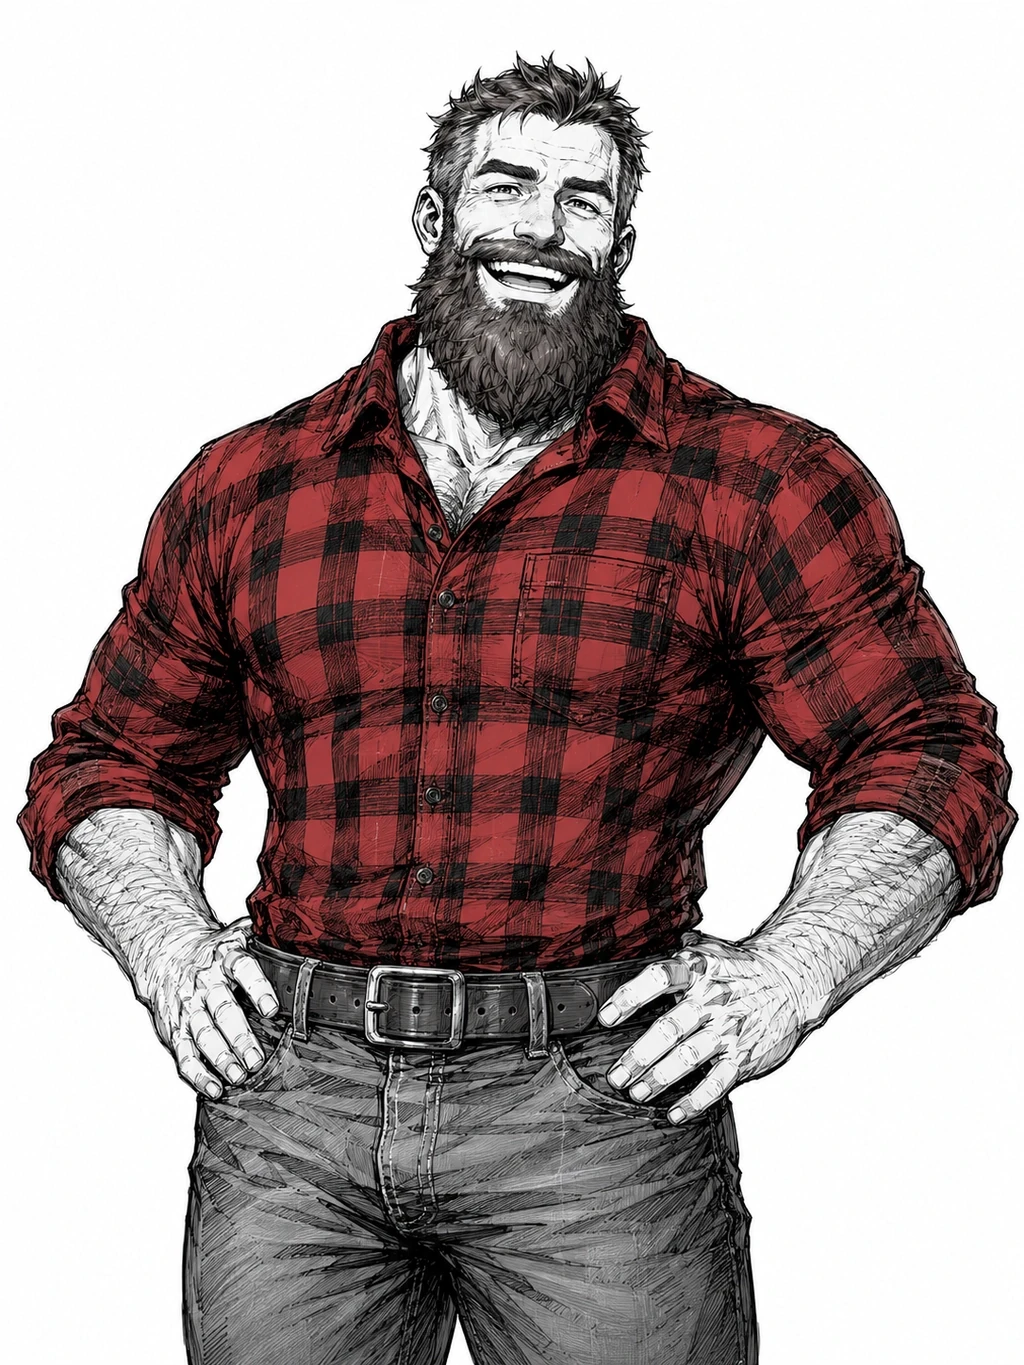
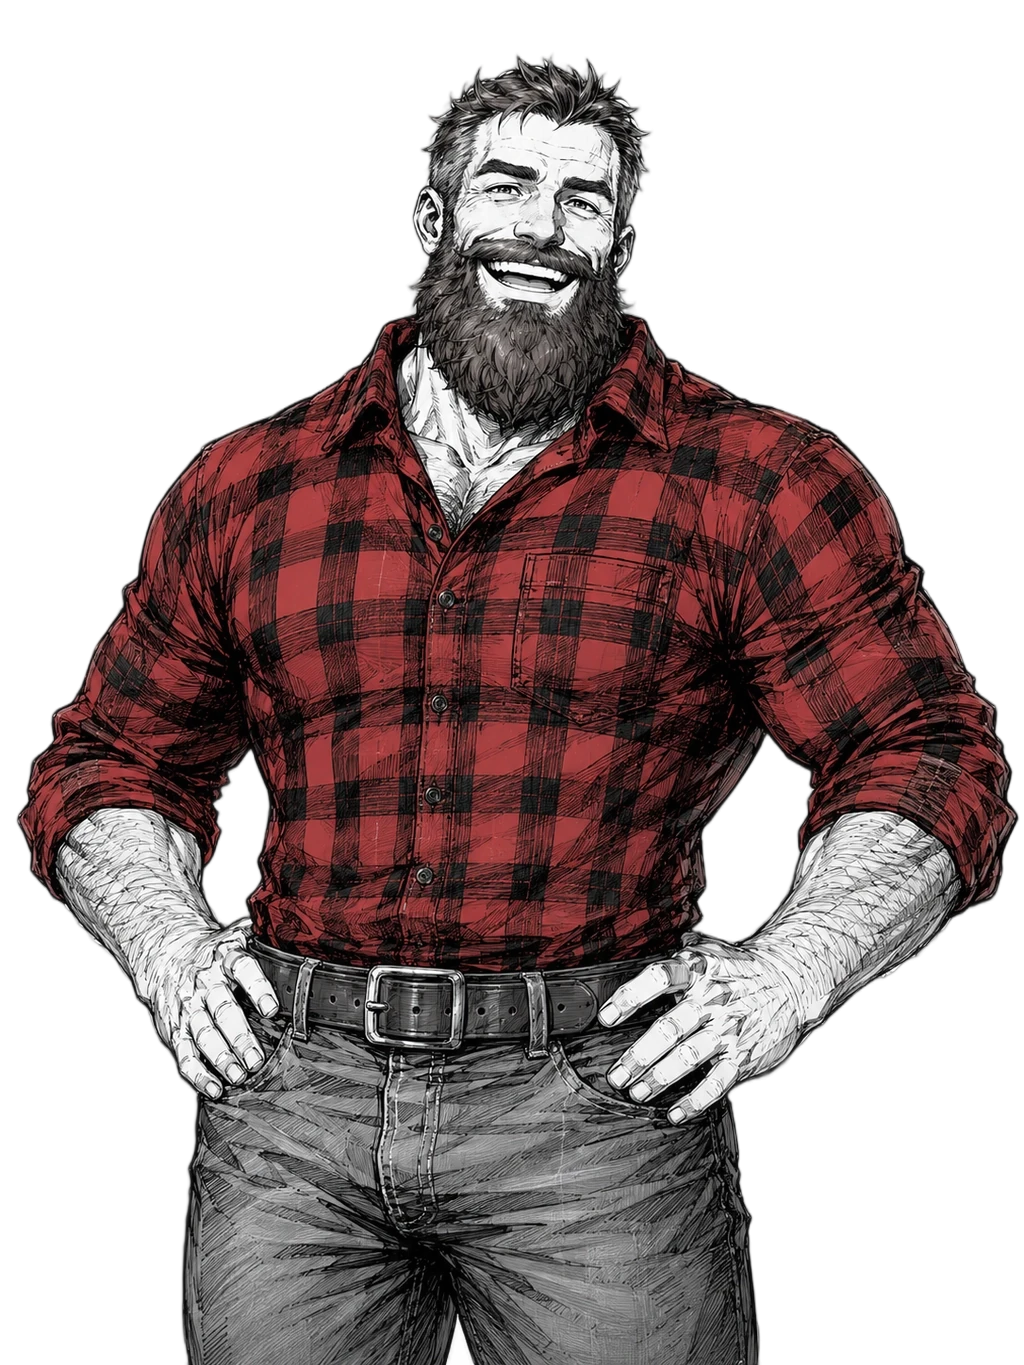
fix(novusweb): Dossier 초상 누끼 누락 방지
* 최근 NPC 초상 12종을 투명 WebP로 재발행하고 갈무직 잔여 배경을 보정

* NPC profile 발행 시 실제 투명 픽셀을 강제하고 회귀 테스트와 하네스 규칙 추가

diff --git a/StarGateV2/scripts/publish-asset-cli.ts b/StarGateV2/scripts/publish-asset-cli.ts
@@ -32,6 +32,33 @@ async function exists(filePath: string): Promise<boolean> {
   }
 }
 
+function requiresTransparentPixels(spec: AssetPathCliInput): boolean {
+  return spec.domain === "npc" && spec.role === "profile";
+}
+
+async function assertRequiredTransparency(
+  inputPath: string,
+  spec: AssetPathCliInput,
+): Promise<void> {
+  if (!requiresTransparentPixels(spec)) return;
+
+  const image = sharp(inputPath);
+  const metadata = await image.metadata();
+  if (!metadata.hasAlpha) {
+    throw new Error(
+      "NPC profile 자산은 local-cutout QA를 통과한 실제 투명 픽셀이 필요합니다.",
+    );
+  }
+
+  const stats = await image.stats();
+  const alpha = stats.channels.at(-1);
+  if (!alpha || alpha.min >= 255) {
+    throw new Error(
+      "NPC profile 자산은 local-cutout QA를 통과한 실제 투명 픽셀이 필요합니다.",
+    );
+  }
+}
+
 export async function publishAsset({
   inputPath,
   overwrite = false,
@@ -50,6 +77,7 @@ export async function publishAsset({
   if (!(await exists(absoluteInputPath))) {
     throw new Error(`입력 이미지를 찾을 수 없습니다: ${absoluteInputPath}`);
   }
+  await assertRequiredTransparency(absoluteInputPath, spec);
 
   const destination = resolveAssetDestination({ ...spec, format: "webp" });
   const absoluteOutputPath = path.resolve(projectRoot, destination.filePath);

diff --git a/StarGateV2/AGENTS.md b/StarGateV2/AGENTS.md
@@ -54,6 +54,16 @@
 
 추론 강도나 agent 리뷰는 테스트, DB 재조회, 브라우저 관찰, 성능 측정을 대체하지 않는다.
 
+## Dossier Portrait Alpha Contract
+
+> **재발 방지: 신원조회용 NPC `profile` 자산은 흰 배경을 포함한 불투명 원본을 그대로 발행하지 않는다.**
+
+- 사용자가 제공한 Dossier 초상에 평면·흰색·촬영 배경이 있으면 단순 이미지 연결이 아니라 배경제거가 포함된 자산 준비 작업으로 분류하고, 전역 `local-cutout` Skill과 `/Users/flitto/Code/toolbox` 절차를 반드시 적용한다.
+- `public/assets/npcs/<Entity>-profile.webp`에는 실제 투명 픽셀이 있어야 한다. 알파 채널만 존재하고 모든 픽셀이 불투명한 파일도 허용하지 않는다.
+- 원본과 1차 후보를 덮어쓰지 않는다. 4배경 QA에서 피사체 보존, 내부 구멍, 밝고 어두운 배경의 가장자리 오염을 확인한 채택본만 `pnpm asset:publish`에 전달한다.
+- 자동 1차 모델과 선언된 fallback이 모두 실패하면 배경 잔여물을 통과 처리하거나 다른 모델을 계속 순회하지 않는다. `local-cutout`의 수동 보정·생성형 복구 경계에 따라 사용자 지시를 받는다.
+- NPC profile 발행을 수정하면 `node --test lib/assets/__tests__/asset-system.test.mjs`를 실행해 불투명 입력의 쓰기 전 거부와 투명 WebP 보존을 확인한다.
+
 ## Page Work History
 
 사용자에게 보이는 페이지 동작을 실질적으로 변경하는 작업은 `docs/work-history/README.md`의 페이지별 작업 이력 규칙을 따른다.
